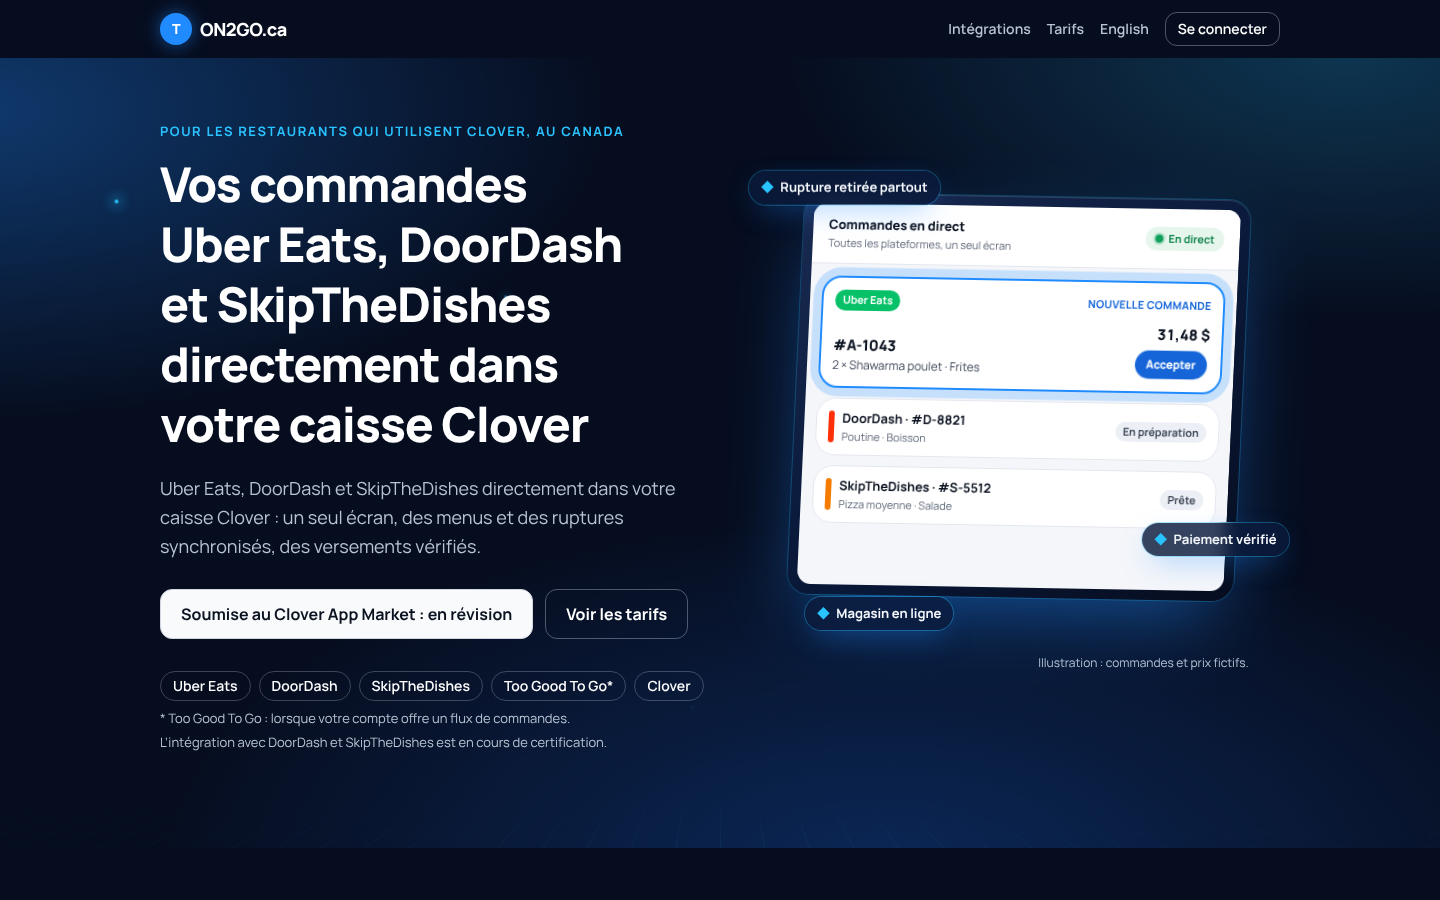
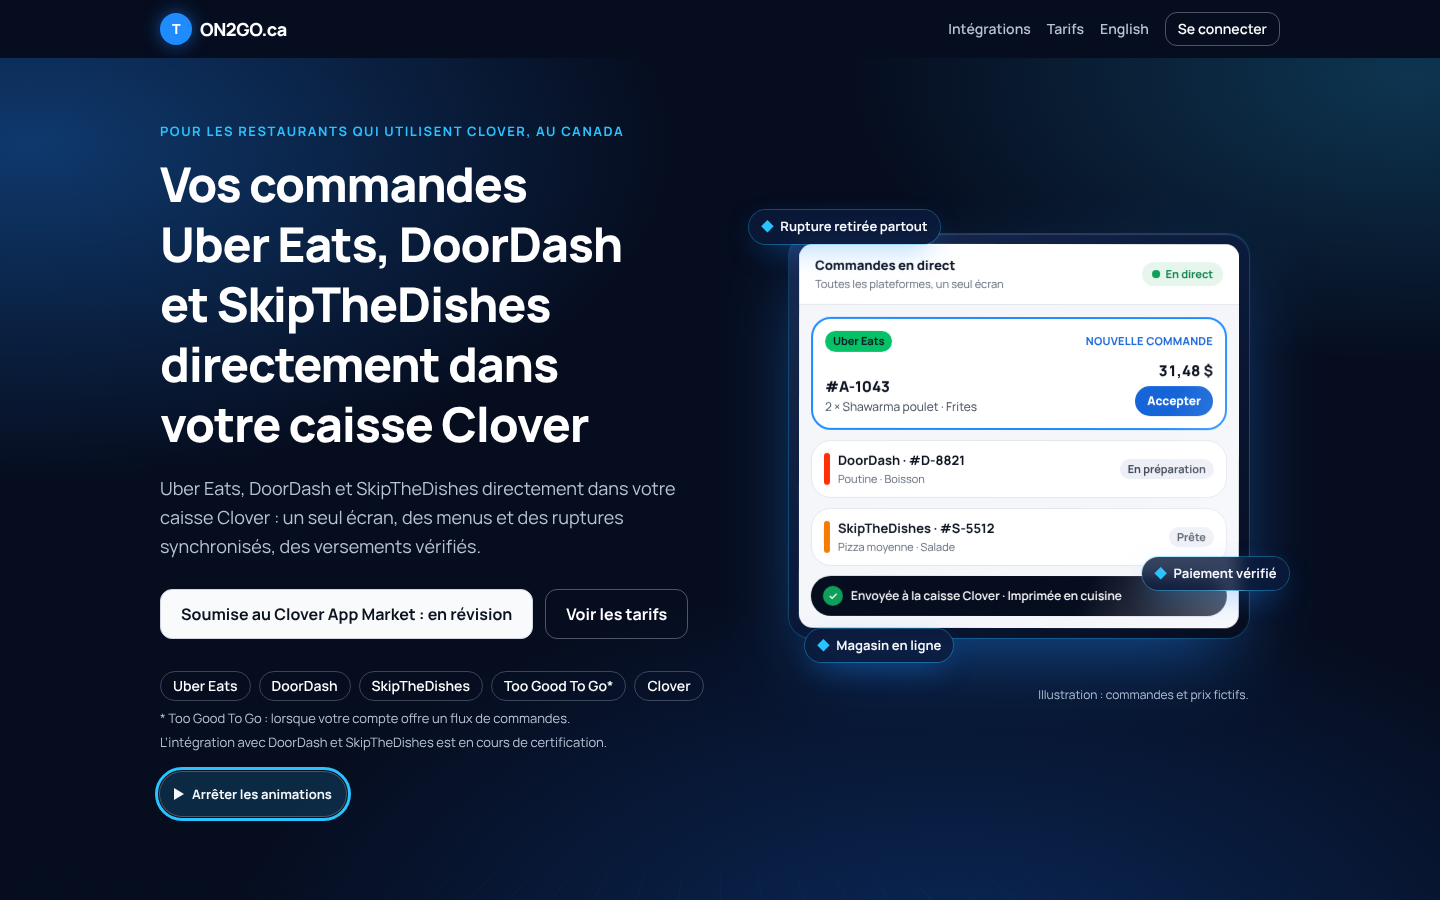
fix(hub): Copilot review: arrival animation runs, a stop control for the motion, readable labels
- The new order's arrival (order-in) and ring (ring-glow) were on one element, both through the `animation`
  shorthand, so the arrival never ran: the arrival moves to a wrapper. New test: no rendered element carries two
  classes that both set `animation` (fails on the old markup).
- WCAG 2.2.2: "Arrêter les animations / Stop the animations" in the hero, a keyboard checkbox (CSS only, :has) that
  stops every CSS animation of the landing and hides the SVG packets; not offered where :has is missing.
- WCAG 1.4.3: the selected feature tab is white on #0f4fae -> #1565d8 (above 5.4:1, was 3.4:1 at the light end);
  platform pills in the illustrations use dark text; the sold-out tag, its strike-through and the Clover tile get
  darker / lighter shades that pass 4.5:1.

Checks: typecheck 0, lint 0 errors (1 old warning), 1719 tests, next build OK; Playwright on the build: order-in and
ring-glow both run, Space on the focused checkbox leaves 0 running animations and 0 visible packets, phone 390 px.

Claude-Session: https://claude.ai/code/session_01YAyd8px5aDq9UaUdzjASk5

Changed region(s): [[0.5312, 0.1867, 0.9062, 0.7778], [0.375, 0.9333, 0.9375, 1.0], [0.0938, 0.84, 0.25, 0.9333]]

diff --git a/components/public-hub/landing-showcase.tsx b/components/public-hub/landing-showcase.tsx
@@ -12,6 +12,8 @@ import styles from './landing.module.css';
 // Words: lib/foodhub/public-hub-showcase.ts. Tests: tests/public-hub-showcase.test.ts.
 
 const PILL: Record<DemoOrder['platform'], string> = { uber: 'bg-uber', doordash: 'bg-doordash', skip: 'bg-skip' };
+/** Dark text reads on every platform colour (white does not reach 4.5:1 on them). */
+const PILL_TEXT = 'text-[#0b1220]';
 const DELIVERY: Array<{ key: HubPlatform; name: string; color: string }> = [
   { key: 'uber', name: 'Uber Eats', color: 'bg-uber' },
   { key: 'doordash', name: 'DoorDash', color: 'bg-doordash' },
@@ -36,6 +38,20 @@ function Icon({ id, className }: { id: string; className?: string }) {
     <svg viewBox="0 0 24 24" aria-hidden="true" className={className} fill="none" stroke="currentColor" strokeWidth={1.7} strokeLinecap="round" strokeLinejoin="round">
       {ICONS[id]}
     </svg>
+  );
+}
+
+/** Pause / stop for every moving part of the landing (WCAG 2.2.2), CSS only: a checkbox inside `landing.motionScope`
+ * (set on the page root by HubPage); `:has(.motionOff:checked)` stops the CSS motion and hides the SVG packets. */
+export function MotionToggle({ lang }: { lang: Lang }) {
+  return (
+    <p className={`${styles.motionToggle} mt-5`}>
+      <input type="checkbox" id="hub-motion-off" className={styles.motionOff} />
+      <label htmlFor="hub-motion-off" className={styles.motionLabel}>
+        <span aria-hidden="true" className={styles.motionIcon} />
+        {SHOWCASE[lang].motionOff}
+      </label>
+    </p>
   );
 }
 
@@ -70,19 +86,21 @@ export function HeroDevice({ lang }: { lang: Lang }) {
               </span>
             </div>
             <div className="space-y-2.5 p-3">
-              <div className={`${styles.orderIn} ${styles.ringing} rounded-xl border-2 border-[#1f8bff] bg-white p-3`}>
-                <div className="flex items-center justify-between gap-2">
-                  <span className={`rounded-md px-2 py-0.5 text-[11px] font-bold text-white ${PILL[first.platform]}`}>{first.label}</span>
-                  <span className="text-[11px] font-bold uppercase tracking-wide text-[#1565d8]">{w.newOrder}</span>
-                </div>
-                <div className="mt-2 flex items-end justify-between gap-3">
-                  <div className="min-w-0">
-                    <p className="text-[15px] font-extrabold text-[#0b1220]">#{first.ref}</p>
-                    <p className="truncate text-[12px] text-[#3d4757]">{first.items}</p>
+              <div className={styles.orderIn}>
+                <div className={`${styles.ringing} rounded-xl border-2 border-[#1f8bff] bg-white p-3`}>
+                  <div className="flex items-center justify-between gap-2">
+                    <span className={`rounded-md px-2 py-0.5 text-[11px] font-bold ${PILL_TEXT} ${PILL[first.platform]}`}>{first.label}</span>
+                    <span className="text-[11px] font-bold uppercase tracking-wide text-[#1565d8]">{w.newOrder}</span>
                   </div>
-                  <div className="text-right">
-                    <p className="text-[15px] font-extrabold tabular-nums text-[#0b1220]">{first.total}</p>
-                    <span className={`${styles.acceptBtn} mt-1 inline-flex rounded-lg bg-[#1565d8] px-3 py-1.5 text-[12px] font-extrabold text-white`}>{w.accept}</span>
+                  <div className="mt-2 flex items-end justify-between gap-3">
+                    <div className="min-w-0">
+                      <p className="text-[15px] font-extrabold text-[#0b1220]">#{first.ref}</p>
+                      <p className="truncate text-[12px] text-[#3d4757]">{first.items}</p>
+                    </div>
+                    <div className="text-right">
+                      <p className="text-[15px] font-extrabold tabular-nums text-[#0b1220]">{first.total}</p>
+                      <span className={`${styles.acceptBtn} mt-1 inline-flex rounded-lg bg-[#1565d8] px-3 py-1.5 text-[12px] font-extrabold text-white`}>{w.accept}</span>
+                    </div>
                   </div>
                 </div>
               </div>
@@ -220,7 +238,7 @@ function ShowcaseCards({ lang }: { lang: Lang }) {
             <ul className="space-y-2">
               {w.orders.map((o, i) => (
                 <li key={o.ref} className={`${styles.slideRow} flex items-center gap-3 rounded-xl bg-[#16294f] px-3 py-2.5 text-white`} style={delay(i * 0.45)}>
-                  <span className={`rounded-md px-2 py-0.5 text-[11px] font-bold ${PILL[o.platform]}`}>{o.label}</span>
+                  <span className={`rounded-md px-2 py-0.5 text-[11px] font-bold ${PILL_TEXT} ${PILL[o.platform]}`}>{o.label}</span>
                   <span className="min-w-0 flex-1 truncate text-[12px] text-silver">{o.items}</span>
                   <span className="text-[12px] font-bold tabular-nums">{`${4 + i * 3}:0${i}`}</span>
                 </li>
@@ -240,7 +258,7 @@ function ShowcaseCards({ lang }: { lang: Lang }) {
               {w.menuItems.map((m, i) => (
                 <li key={m} className={`flex items-center justify-between gap-2 ${i === 2 ? styles.soldOutRow : ''}`}>
                   <span className="truncate">{m}</span>
-                  {i === 2 && <span className={`${styles.soldOutTag} rounded bg-[#e23b3e] px-1.5 text-[10px] font-bold text-white`}>{w.soldOut}</span>}
+                  {i === 2 && <span className={`${styles.soldOutTag} rounded bg-[#bd2427] px-1.5 text-[10px] font-bold text-white`}>{w.soldOut}</span>}
                 </li>
               ))}
             </ul>
@@ -341,7 +359,7 @@ function IntegrationsPanel({ lang, ctx }: { lang: Lang; ctx: HubContext }) {
           <h3 className="text-lg font-extrabold text-ink">{w.posTitle}</h3>
           <p className="mt-1 text-[15px] text-ink-2">{w.posText}</p>
           <div className="mt-5 flex items-center gap-3 rounded-xl border border-line bg-raised p-4">
-            <span aria-hidden="true" className="grid size-10 place-items-center rounded-lg bg-clover text-lg font-black text-white">C</span>
+            <span aria-hidden="true" className="grid size-10 place-items-center rounded-lg bg-[#0b7f48] text-lg font-black text-white">C</span>
             <div>
               <p className="font-extrabold text-ink">Clover</p>
               <p className="text-[13px] text-ink-3">TAKATAK Food Hub</p>

diff --git a/components/public-hub/landing.module.css b/components/public-hub/landing.module.css
@@ -113,7 +113,7 @@
 .check { opacity: 0; transform: scale(0.4); animation: tick 6s ease-out infinite; }
 @keyframes tick { 0%, 25% { opacity: 0; transform: scale(0.4); } 33%, 90% { opacity: 1; transform: scale(1); } 100% { opacity: 0; } }
 .soldOutRow { animation: strike 6s ease-in-out infinite; }
-@keyframes strike { 0%, 45% { color: inherit; text-decoration: none; } 55%, 95% { color: #e23b3e; text-decoration: line-through; } 100% { color: inherit; } }
+@keyframes strike { 0%, 45% { color: inherit; text-decoration: none; } 55%, 95% { color: #f05252; text-decoration: line-through; } 100% { color: inherit; } }
 .soldOutTag { opacity: 0; animation: tag 6s ease-in-out infinite; }
 @keyframes tag { 0%, 48% { opacity: 0; } 55%, 95% { opacity: 1; } 100% { opacity: 0; } }
 .wire { stroke-dasharray: 5 7; animation: dash 1.4s linear infinite; }
@@ -129,7 +129,8 @@
 }
 .tabLabel:hover { transform: translateY(-1px); box-shadow: 0 0 0 1px var(--color-electric); color: var(--color-ink); }
 .tabInput:focus-visible + .tabLabel { outline: 3px solid #29c3ff; outline-offset: 2px; }
-.tabInput:checked + .tabLabel { color: #ffffff; background: linear-gradient(135deg, #1565d8, #1f8bff); box-shadow: 0 10px 24px -10px rgb(31 139 255 / 0.8); }
+/* White on #0f4fae → #1565d8 stays above 5.4:1 across the whole gradient (WCAG 1.4.3). */
+.tabInput:checked + .tabLabel { color: #ffffff; background: linear-gradient(135deg, #0f4fae, #1565d8); box-shadow: 0 10px 24px -10px rgb(31 139 255 / 0.8); }
 .panel { display: none; }
 .explorer:has(input[value='orders']:checked) .panel[data-tab='orders'],
 .explorer:has(input[value='kitchen']:checked) .panel[data-tab='kitchen'],
@@ -175,3 +176,30 @@
   .packet { display: none; }
   .device, .stage:hover .device { transform: none; }
 }
+
+/* ---------- the visitor's own stop control (WCAG 2.2.2): checkbox in the hero, scope = the whole landing ---------- */
+.motionToggle { position: relative; }
+.motionOff { position: absolute; opacity: 0; width: 1px; height: 1px; pointer-events: none; }
+.motionLabel {
+  display: inline-flex; align-items: center; gap: 8px; min-height: 44px; cursor: pointer; user-select: none;
+  border-radius: 999px; padding: 8px 14px; font-size: 13px; font-weight: 700; color: #f5f8fc;
+  box-shadow: 0 0 0 1px rgb(184 196 211 / 0.4);
+}
+.motionLabel:hover { box-shadow: 0 0 0 1px #ffffff; }
+.motionOff:focus-visible + .motionLabel { outline: 3px solid #29c3ff; outline-offset: 2px; }
+/* Pause bars while the motion runs, a play triangle once it is stopped. */
+.motionIcon { width: 10px; height: 12px; border-left: 3px solid currentColor; border-right: 3px solid currentColor; }
+.motionOff:checked + .motionLabel .motionIcon {
+  width: 0; height: 0; border-right: 0; border-left: 10px solid currentColor; border-top: 6px solid transparent; border-bottom: 6px solid transparent;
+}
+.motionOff:checked + .motionLabel { background: rgb(41 195 255 / 0.16); }
+.motionScope:has(.motionOff:checked) *,
+.motionScope:has(.motionOff:checked) *::before,
+.motionScope:has(.motionOff:checked) *::after { animation: none !important; }
+.motionScope:has(.motionOff:checked) .toast,
+.motionScope:has(.motionOff:checked) .check,
+.motionScope:has(.motionOff:checked) .soldOutTag { opacity: 1; transform: none; }
+.motionScope:has(.motionOff:checked) .packet { display: none; }
+.motionScope:has(.motionOff:checked) .device { transform: none; }
+/* Without :has() the checkbox could not stop anything: do not offer it. */
+@supports not selector(:has(*)) { .motionToggle { display: none; } }

diff --git a/tests/public-hub-showcase.test.ts b/tests/public-hub-showcase.test.ts
@@ -65,12 +65,43 @@ describe('premium landing showcase (/hub, /en/hub)', () => {
     const before = css.slice(0, css.indexOf('@media (prefers-reduced-motion: reduce)'));
     // The subject of each animated rule: the last class of every comma-separated selector whose block sets `animation:`.
     const animated = [...before.matchAll(/([^{}]+)\{([^{}]*)\}/g)]
-      .filter((m) => /(^|[;\s])animation:/.test(m[2]))
+      .filter((m) => /(^|[;\s])animation:/.test(m[2]) && !/animation:\s*none/.test(m[2]))
       .flatMap((m) => m[1].split(',').map((sel) => [...sel.matchAll(/\.([a-zA-Z]+)/g)].at(-1)?.[1]))
       .filter((c): c is string => Boolean(c));
     expect(animated.length).toBeGreaterThan(10);
     for (const cls of new Set(animated)) expect(reduced, cls).toContain(`.${cls}`);
     expect(reduced).toContain('.packet { display: none; }'); // the SVG packets move with <animateMotion>
+  });
+  it('a visitor can stop every motion (WCAG 2.2.2): a labelled checkbox in the hero, scoped to the landing', () => {
+    for (const lang of LANGS) {
+      const html = render('landing', lang);
+      expect(html).toMatch(/<input [^>]*type="checkbox"[^>]*id="hub-motion-off"/);
+      expect(html).toContain('for="hub-motion-off"');
+      expect(visibleText(html)).toContain(SHOWCASE[lang].motionOff);
+      expect(html).toMatch(/<div lang="[^"]+" class="[^"]*_motionScope_/); // the page root holds the scope
+      expect(render('pricing', lang)).not.toContain('hub-motion-off');
+    }
+    const css = readFileSync('components/public-hub/landing.module.css', 'utf8');
+    expect(css).toContain('.motionScope:has(.motionOff:checked) *,');
+    expect(css).toMatch(/\.motionScope:has\(\.motionOff:checked\) \*::after \{ animation: none !important; \}/);
+    expect(css).toContain('.motionScope:has(.motionOff:checked) .packet { display: none; }'); // SVG <animateMotion> packets
+  });
+  it('no element carries two classes that both set the `animation` shorthand (the later one would cancel the other)', () => {
+    const css = readFileSync('components/public-hub/landing.module.css', 'utf8');
+    const before = css.slice(0, css.indexOf('@media (prefers-reduced-motion: reduce)'));
+    // Classes whose own element animates: the last compound of each selector, pseudo-elements excluded.
+    const own = new Set([...before.matchAll(/([^{}]+)\{([^{}]*)\}/g)]
+      .filter((m) => /(^|[;\s])animation:/.test(m[2]) && !/animation:\s*none/.test(m[2]))
+      .flatMap((m) => m[1].split(',').map((sel) => sel.trim()).filter((sel) => !sel.includes('::'))
+        .map((sel) => [...(sel.split(/\s+/).at(-1) ?? '').matchAll(/\.([a-zA-Z]+)/g)].at(-1)?.[1]))
+      .filter((c): c is string => Boolean(c)));
+    expect(own.has('orderIn') && own.has('ringing')).toBe(true);
+    for (const lang of LANGS) {
+      for (const [, cls] of render('landing', lang).matchAll(/class="([^"]*)"/g)) {
+        const hits = [...own].filter((c) => new RegExp(`(^|\\s)_${c}_`).test(cls));
+        expect(hits.length, `${lang}: ${cls}`).toBeLessThanOrEqual(1);
+      }
+    }
   });
   it('the demo orders are an illustration hidden from screen readers, and say so', () => {
     for (const lang of LANGS) {

diff --git a/components/public-hub/hub-page.tsx b/components/public-hub/hub-page.tsx
@@ -8,7 +8,7 @@ import {
   hubRequirements, jsonLdScript, pendingPlatforms, platformList, type HubContext, type HubPageKey,
 } from '@/lib/foodhub/public-hub';
 import { HUB_UI, type Block, type Card } from '@/lib/foodhub/public-hub-content';
-import { HeroDevice, HeroSparkles, LandingShowcase } from './landing-showcase';
+import { HeroDevice, HeroSparkles, LandingShowcase, MotionToggle } from './landing-showcase';
 import landing from './landing.module.css';
 
 // The public ON2GO.ca pages (/hub, /en/hub…): server-rendered, no page-specific client component, no tracker, no
@@ -194,7 +194,7 @@ export function HubPage({ page, lang, ctx }: { page: HubPageKey; lang: Lang; ctx
   const pending = pendingPlatforms(ctx);
   const isLanding = page === 'landing';
   return (
-    <div lang={lang === 'fr' ? 'fr-CA' : 'en-CA'} className="min-h-dvh bg-canvas text-ink">
+    <div lang={lang === 'fr' ? 'fr-CA' : 'en-CA'} className={`min-h-dvh bg-canvas text-ink${isLanding ? ` ${landing.motionScope}` : ''}`}>
       <a href="#contenu" className="sr-only focus:not-sr-only focus:absolute focus:left-3 focus:top-3 focus:z-10 focus:rounded-md focus:bg-surface focus:px-3 focus:py-2">{ui.skip}</a>
       <header className="bg-rail text-white">
         <div className="mx-auto flex max-w-6xl flex-wrap items-center justify-between gap-3 px-4 py-3">
@@ -248,6 +248,7 @@ export function HubPage({ page, lang, ctx }: { page: HubPageKey; lang: Lang; ctx
                   {pending.length > 0 && (
                     <p className="mt-1 text-[13px] text-silver">{ui.pending.trim().replace('{platforms}', platformList(pending, lang))}</p>
                   )}
+                  <MotionToggle lang={lang} />
                 </div>
               )}
             </div>

diff --git a/lib/foodhub/public-hub-showcase.ts b/lib/foodhub/public-hub-showcase.ts
@@ -23,6 +23,8 @@ export interface ShowcaseWords {
   connected: string; certifying: string; tgtgCondition: string; otherPos: string; otherPosCta: string;
   facts: Array<{ big: string; small: string }>;
   demoNote: string;
+  /** The pause control of the landing's motion (WCAG 2.2.2). */
+  motionOff: string;
 }
 
 const ORDERS_FR: DemoOrder[] = [
@@ -81,6 +83,7 @@ export const SHOWCASE: Record<Lang, ShowcaseWords> = {
       { big: 'Français et anglais', small: 'pour toute l’équipe' },
     ],
     demoNote: 'Illustration : commandes et prix fictifs.',
+    motionOff: 'Arrêter les animations',
   },
   en: {
     live: 'Live orders', liveSub: 'Every platform, one screen', newOrder: 'New order', accept: 'Accept',
@@ -126,5 +129,6 @@ export const SHOWCASE: Record<Lang, ShowcaseWords> = {
       { big: 'French and English', small: 'for the whole team' },
     ],
     demoNote: 'Illustration: fictional orders and prices.',
+    motionOff: 'Stop the animations',
   },
 };
